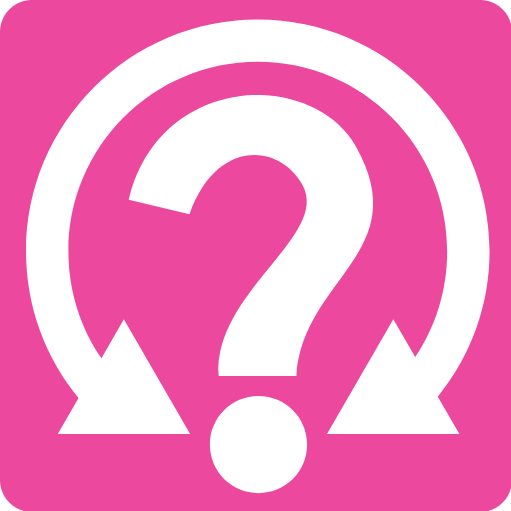
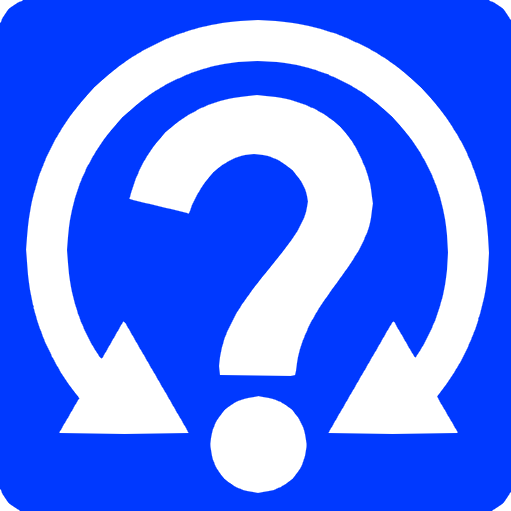
加入帖子分割线，更换默认头像样式 移除了him

diff --git a/src/ui/TestEventHandler.java b/src/ui/TestEventHandler.java
@@ -4,6 +4,7 @@ import controller.PostController;
 import javafx.application.Platform;
 import javafx.event.EventHandler;
 import javafx.scene.Node;
+import javafx.scene.control.Separator;
 import javafx.scene.image.Image;
 import javafx.scene.image.ImageView;
 import javafx.scene.input.MouseEvent;
@@ -262,6 +263,7 @@ public class TestEventHandler implements IClientEventHandler {
                             calendar.get(Calendar.YEAR)+"年"+(calendar.get(Calendar.MONTH)+1)+"月"
                                     +calendar.get(Calendar.DAY_OF_MONTH)+"日");
                     UIManager.postController.postMainVbox.getChildren().addAll(postbox);
+                    UIManager.postController.postMainVbox.getChildren().addAll(new Separator());
                 }
             }
         });

diff --git a/src/controller/ProvinceController.java b/src/controller/ProvinceController.java
@@ -116,12 +116,13 @@ public class ProvinceController implements Initializable {
     }
 
     private void setMainImage(String path0){
-        System.out.println(path0);
         try {
             Random r = new Random();
             mainImage.setImage(new Image(path0+""+(r.nextInt(2)+1)+".jpg"));
+            System.out.println(path0);
         }catch (Exception e){
              mainImage.setImage(new Image("./resources/mask.jpg"));
+             e.printStackTrace();
         }
     }
 
